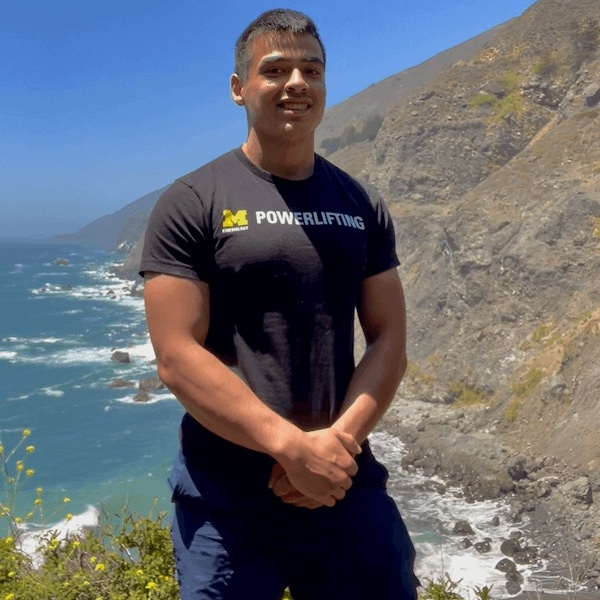
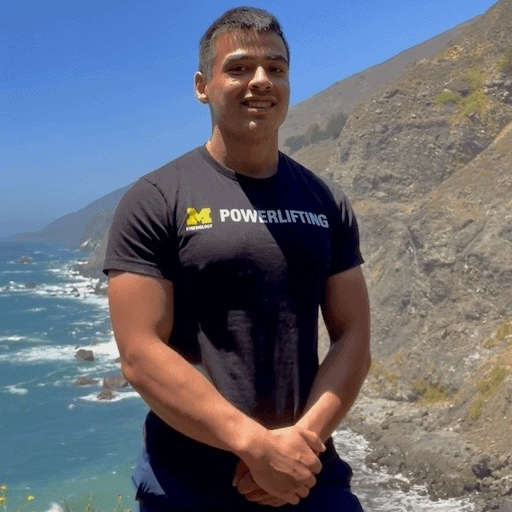
adjust image croppings

diff --git a/other.html b/other.html
@@ -9,7 +9,7 @@ Outside of computer science I have the chance to participate in many activitites
 <link rel="stylesheet" type="text/css" href="css/main.css">
 <h2>Chess</h2>
 <p>
-<img src="assets/fun_figs/chess-NationalOpen.jpeg" align="right" style="width:200px;height:150px;">
+<img src="assets/fun_figs/chess-NationalOpen.jpeg" align="right" style="width:200px;height:200px;">
 I hold the titles of <a href="http://www.uschess.org/msa/MbrDtlMain.php?12802899">USCF Senior Master</a> and <a href="https://ratings.fide.com/card.phtml?event=2028441">FIDE Master</a>, the highest rating-based national and international titles awarded in chess, respectively.  Over the course of my competitive career, I have won several national scholastic titles and state open titles, as well as national collegiate team titles from my years playing chess for the WUSTL and U of M collegiate chess teams.  In the 2018 and 2019 <a href="https://www.prochessleague.com/">PRO Chess League</a> seasons, I played for the <a href="https://www.prochessleague.com/pittsburgh-pawngrabbers.html">Pittsburgh Pawngrabbers</a>; our team made the playoffs in 2018.  In 2020, I also played first board for the Michigan team that made it to the finals of the inaugural online <a href="https://stateschesscup.wordpress.com/">States Chess Cup</a>.  For several years I also taught chess in private and group lessons, organizing intensive chess camps as well as after-school programs.  
 </p>
 <div class="blurb">
@@ -26,7 +26,7 @@ I hold the titles of <a href="http://www.uschess.org/msa/MbrDtlMain.php?12802899
 
 <h2>Powerlifting</h2>
 <p>
-<img src="assets/fun_figs/lifting-squat.jpg" align="right" style="width:120px;height:113px;">
+<img src="assets/fun_figs/lifting-squat.jpg" align="right" style="width:200px;height:164px;">
 In graduate school, I took up lifting weights as a nice contrast to the abstract and cerebral nature of research.  This eventually led me to the sport of <a href="https://en.wikipedia.org/wiki/Powerlifting">powerlifting</a>, which is <a href="http://calloso.com/">well represented in Michigan</a>.  My <a href="https://www.openpowerlifting.org/u/markheimann">competitive results</a> can be found via the <a href="https://www.openpowerlifting.org/">Open Powerlifting</a> project.  I also became a USA Powerlifting state referee in 2019 and have refereed multiple powerlifting meets in Michigan, Ohio, and Pennsylvania.  
 </p>
 <h2>Creative Interests</h2>
